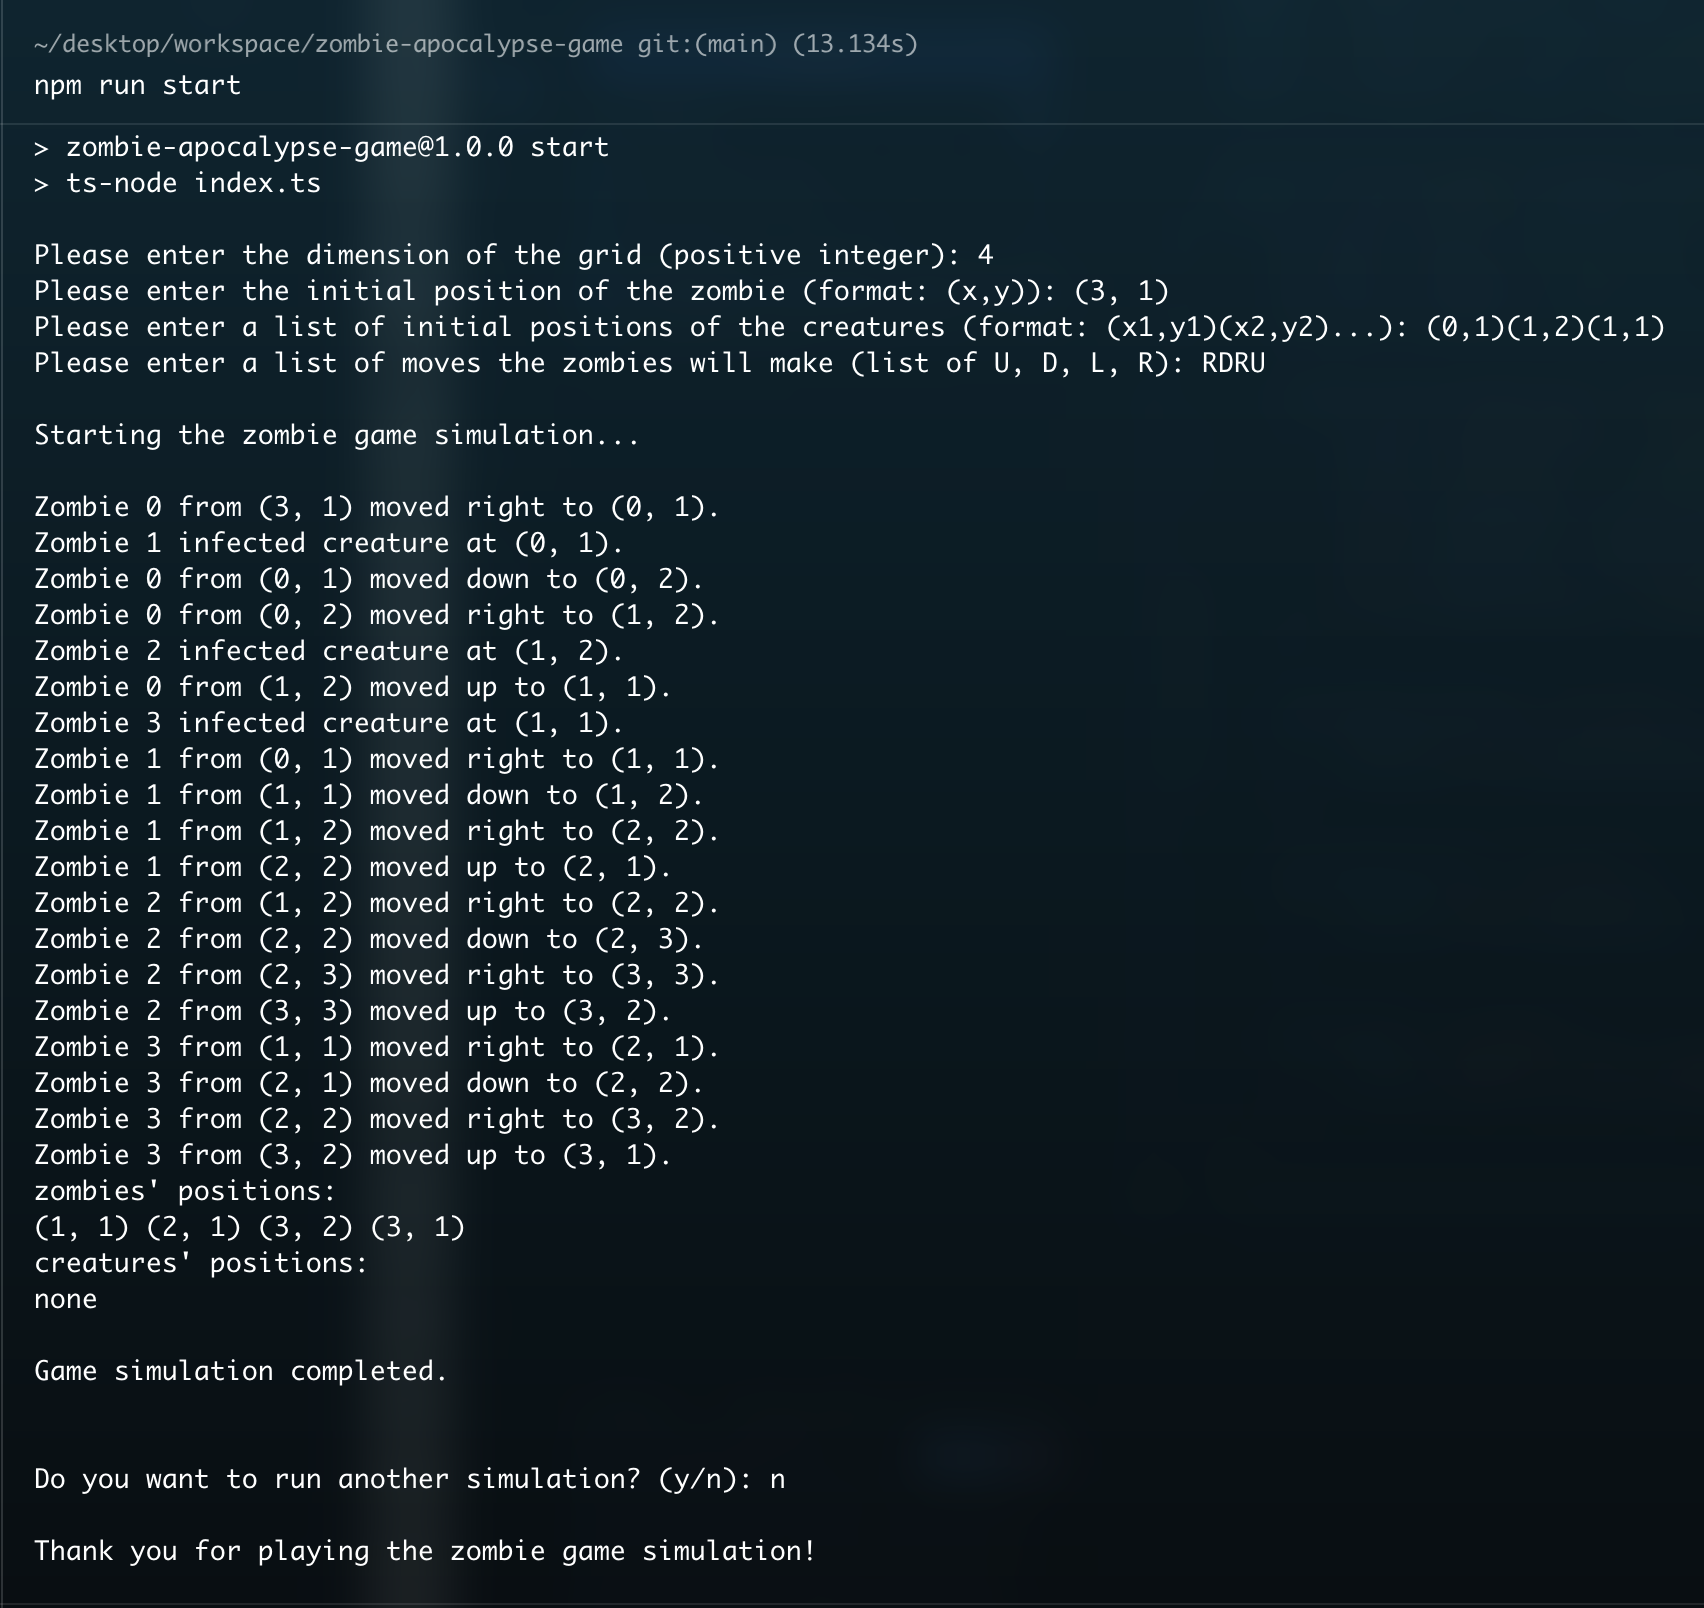
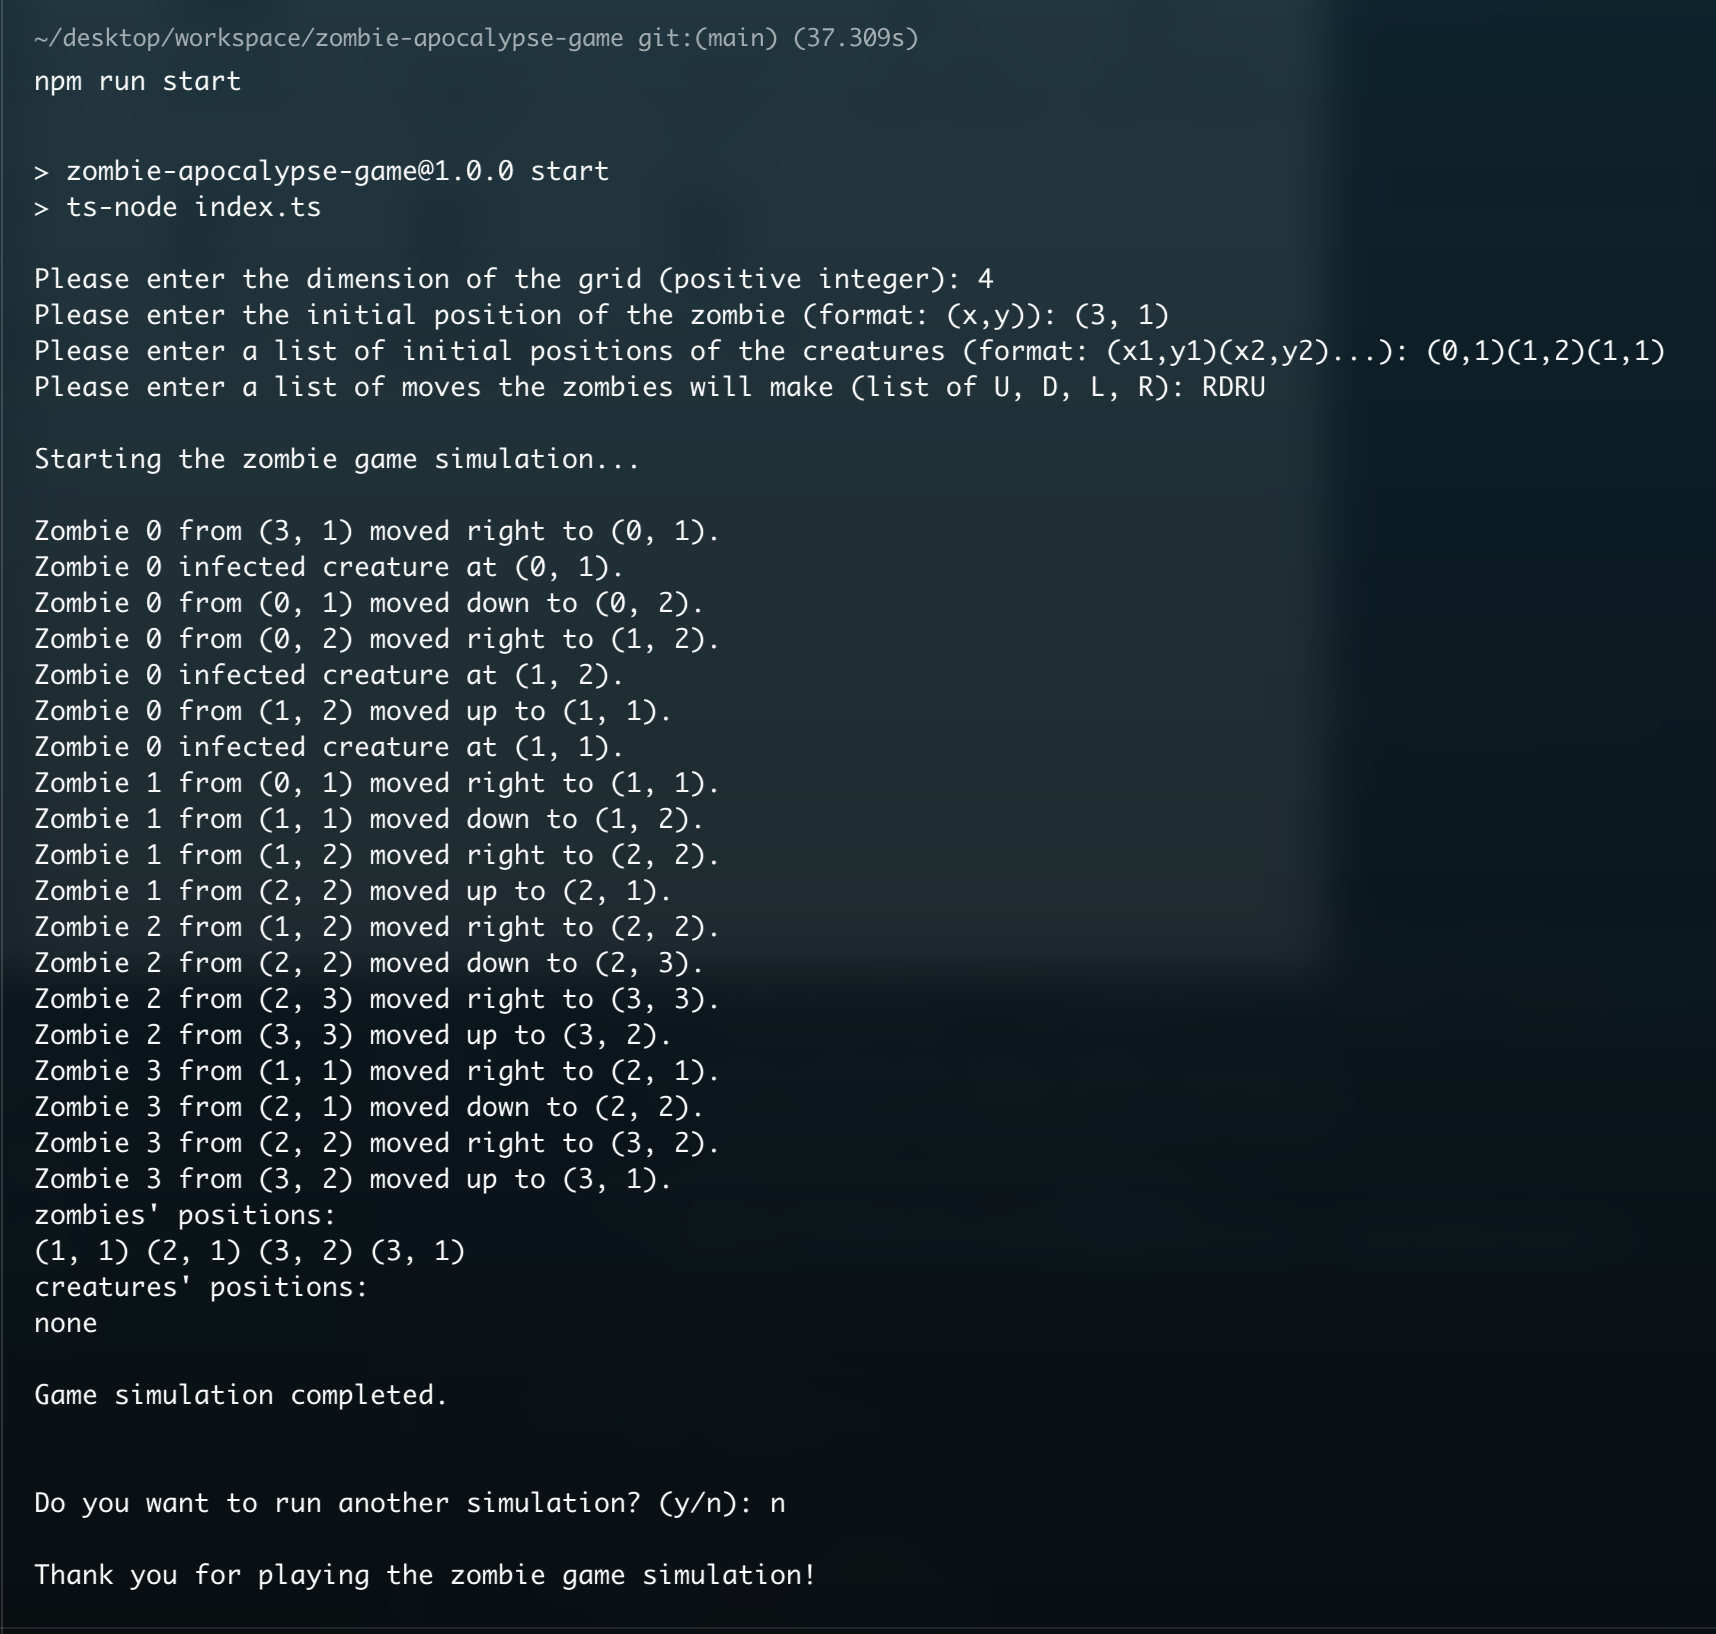
fix: updated log message on notify infaction, update test image

diff --git a/src/core/Game.ts b/src/core/Game.ts
@@ -63,7 +63,7 @@ export class Game {
             const nextPosition = this.movement.move(currentPosition, direction, this.grid.getSize());
 
             this.notifyZombieMovement(zombie.getZombieIndex(), currentPosition, direction, nextPosition);
-            this.checkAndProcessInfection(nextPosition);
+            this.checkAndProcessInfection(zombie.getZombieIndex(), nextPosition);
             zombie.setPosition(nextPosition);
         }
     }
@@ -79,7 +79,7 @@ export class Game {
         }
     }
 
-    private checkAndProcessInfection(nextPosition: Position): void {
+    private checkAndProcessInfection(zombieIndex: string, nextPosition: Position): void {
         const entity = this.grid.getEntityByPosition(nextPosition);
         if (!entity) {
             return;
@@ -95,7 +95,7 @@ export class Game {
         this.grid.addEntity(newZombie);
         this.zombieQueue.push(newZombie);
 
-        this.notifyInfection(newZombie.getZombieIndex(), nextPosition);
+        this.notifyInfection(zombieIndex, nextPosition);
     }
 
     private notifyInfection(zombieIndex: string, position: Position): void {
